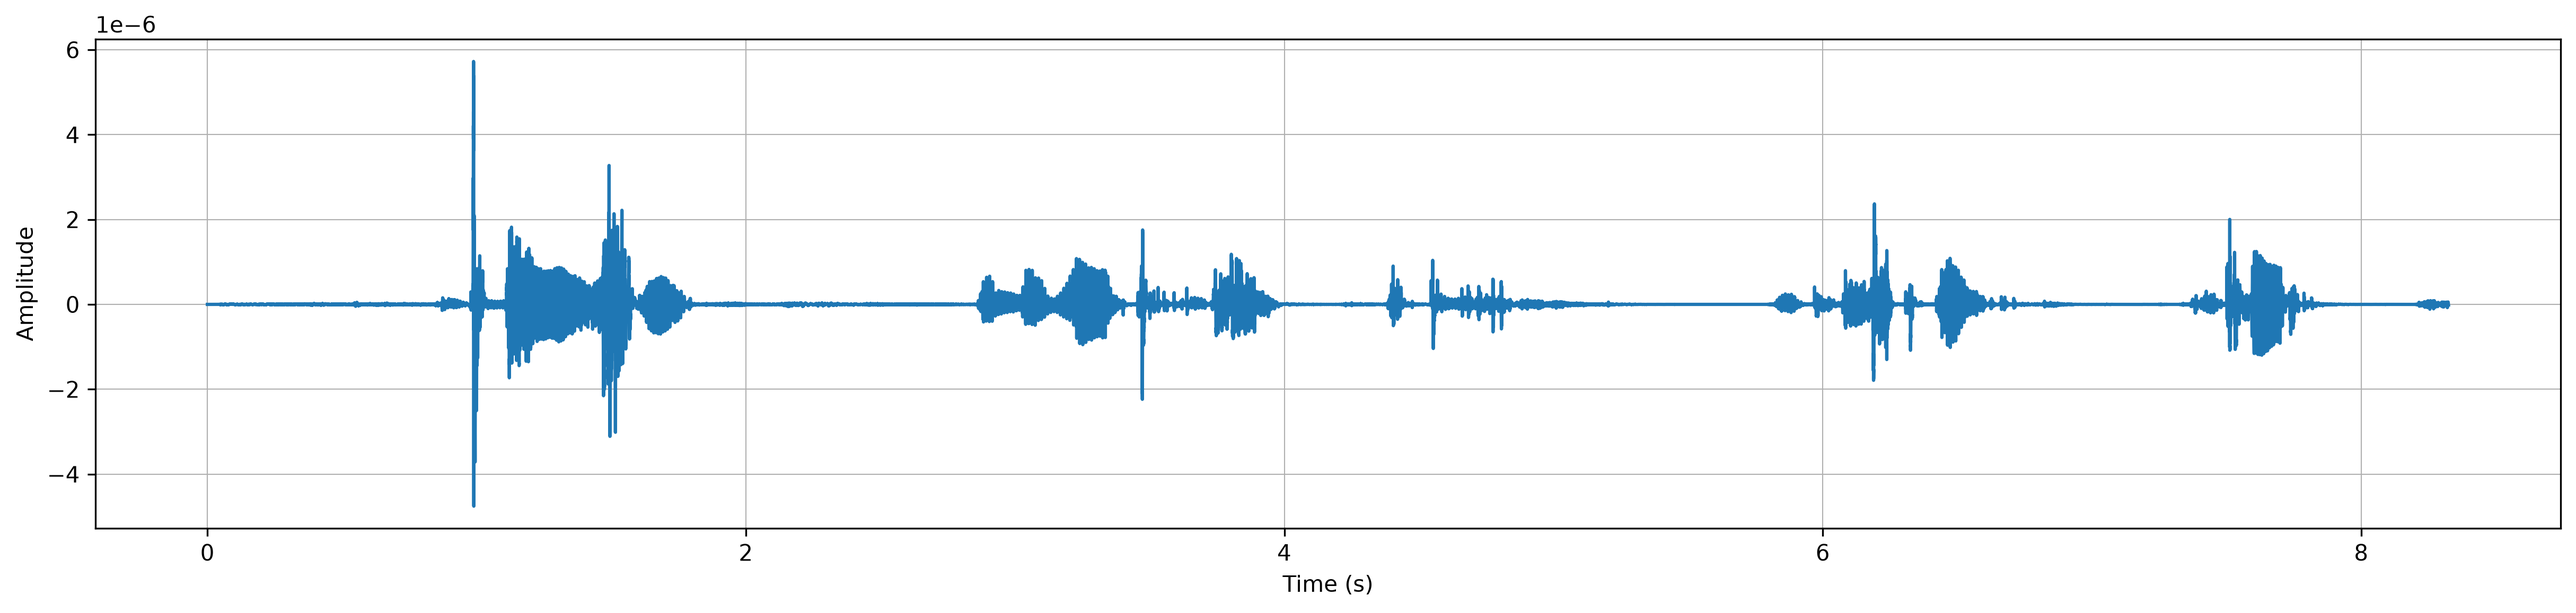
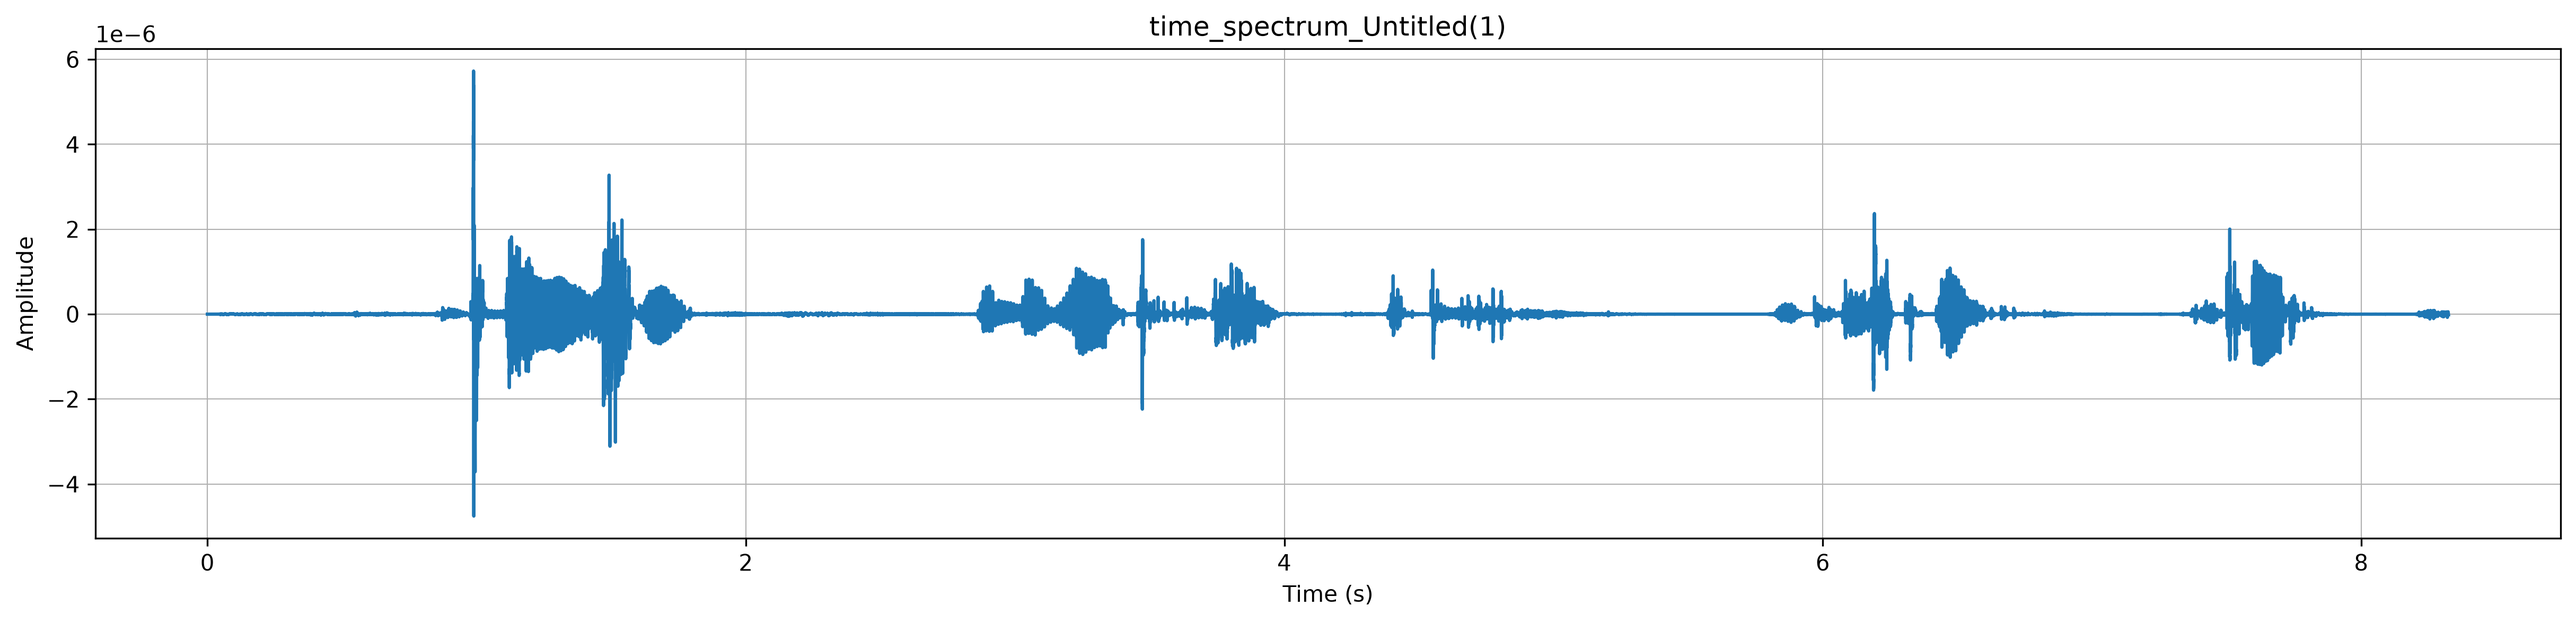
JM - FIx titles in png files

diff --git a/fft.py b/fft.py
@@ -16,14 +16,13 @@ def read_wav_file(file):
     return sample_rate, data, time, file_name
 
 def plot_time_spectrum(time, data, title, original_file_name = ""):
-    title = title + "_" + original_file_name + ".png"
-    plt.title(title)
     plt.figure(figsize=(20, 4))
     plt.plot(time, data)
+    plt.title(title + "_" + original_file_name)
     plt.xlabel('Time (s)')
     plt.ylabel('Amplitude')
     plt.grid(True, which='both', linestyle='-', linewidth=0.5)
-    plt.savefig(IMAGES_DIR / title, dpi=300, bbox_inches='tight')
+    plt.savefig(IMAGES_DIR / f"{title}_{original_file_name}.png", dpi=300, bbox_inches='tight')
     plt.close()
 
 def plot_frequency_spectrum(data, sample_rate, title, original_file_name = ""):
@@ -32,14 +31,13 @@ def plot_frequency_spectrum(data, sample_rate, title, original_file_name = ""):
     spectrum = spectrum[:len(spectrum) // 2] # remove all frequencies > Nyquist frequency
     frequencies = np.linspace(0, sample_rate, len(spectrum))
 
-    title = title + "_" + original_file_name + ".png"
-    plt.title(title)
     plt.figure(figsize=(20, 4))
     plt.semilogx(frequencies, spectrum)
+    plt.title(title + "_" + original_file_name)
     plt.xlabel("Frequency (Hz)")
     plt.ylabel("Magnitude")
     plt.grid(True, which='both', linestyle='-', linewidth=0.5)
-    plt.savefig(IMAGES_DIR / title, dpi=300, bbox_inches="tight")
+    plt.savefig(IMAGES_DIR / f"{title}_{original_file_name}.png", dpi=300, bbox_inches="tight")
     plt.close()
 
 def plot_frequency_spectrum_dB(data, sample_rate, title, original_file_name = ""):
@@ -50,14 +48,13 @@ def plot_frequency_spectrum_dB(data, sample_rate, title, original_file_name = ""
 
     spectrum = 20* np.log10(spectrum)
 
-    title = title + "_" + original_file_name + ".png"
-    plt.title(title)
     plt.figure(figsize=(20, 4))
     plt.semilogx(frequencies, spectrum)
+    plt.title(title + "_" + original_file_name)
     plt.xlabel("Frequency (Hz)")
     plt.ylabel("Magnitude (dB)")
     plt.grid(True, which='both', linestyle='-', linewidth=0.5)
-    plt.savefig(IMAGES_DIR / title, dpi=300, bbox_inches="tight")
+    plt.savefig(IMAGES_DIR / f"{title}_{original_file_name}.png", dpi=300, bbox_inches="tight")
     plt.close()
 
 
